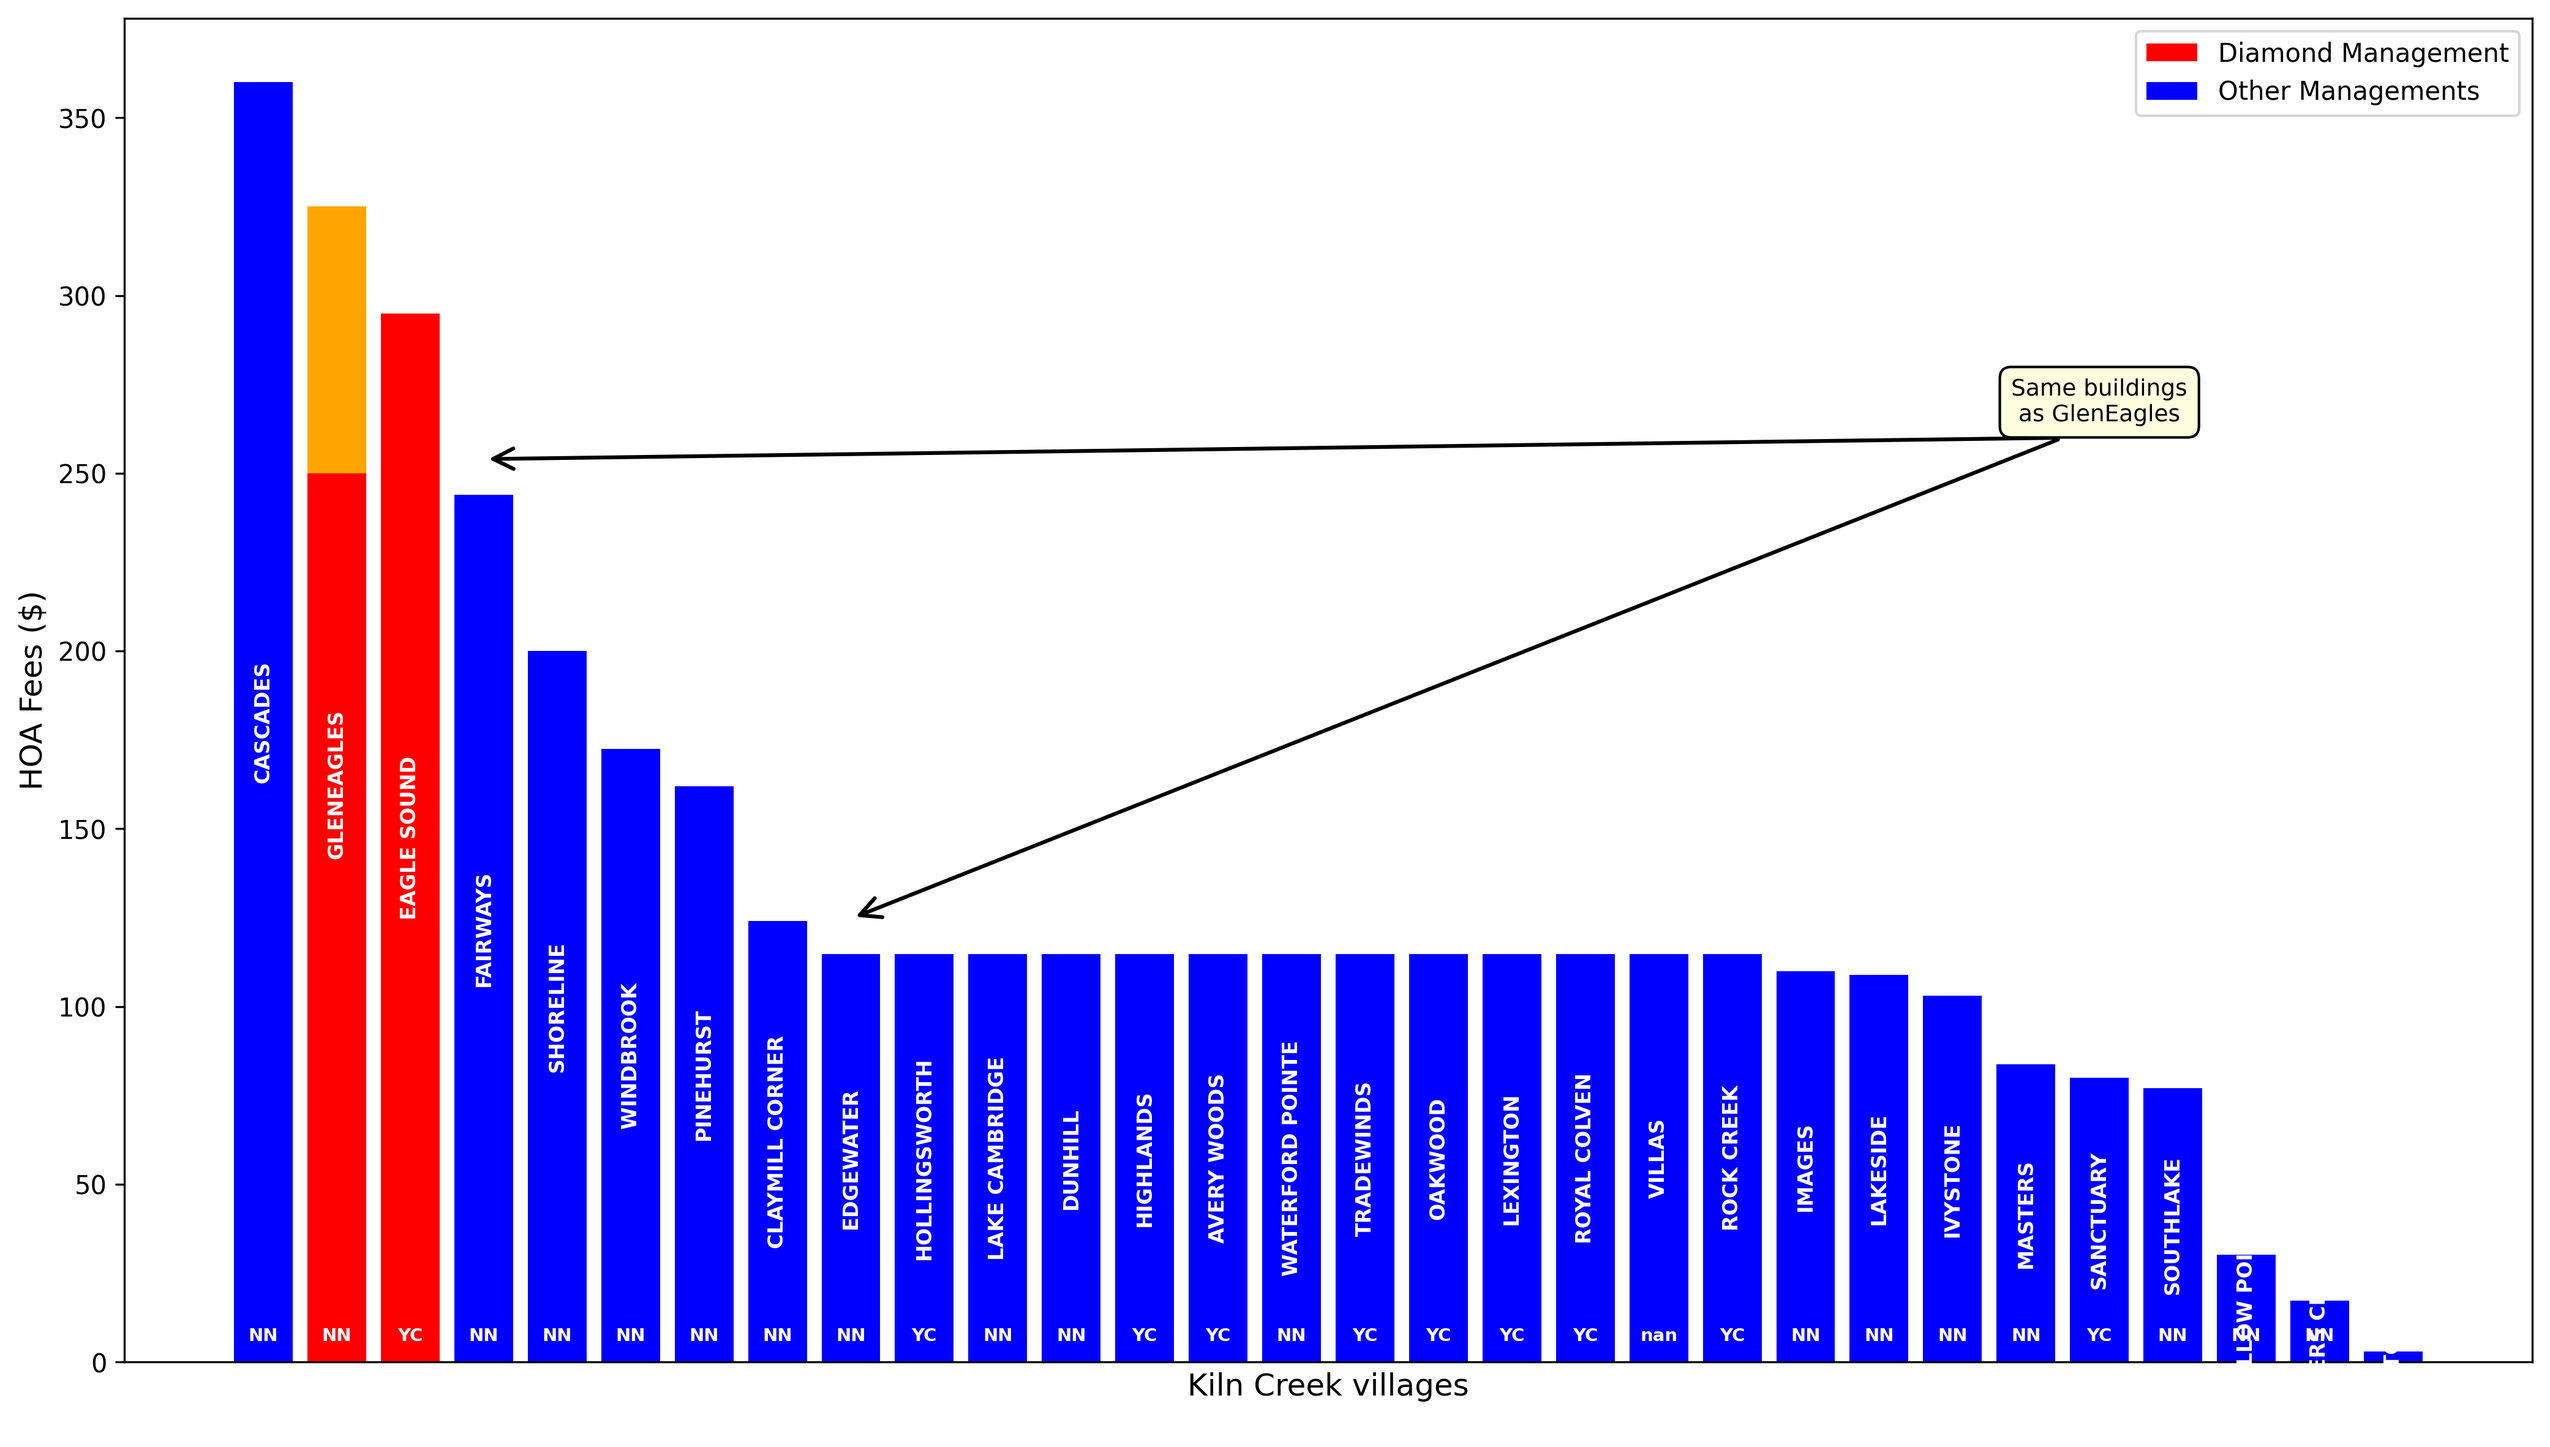
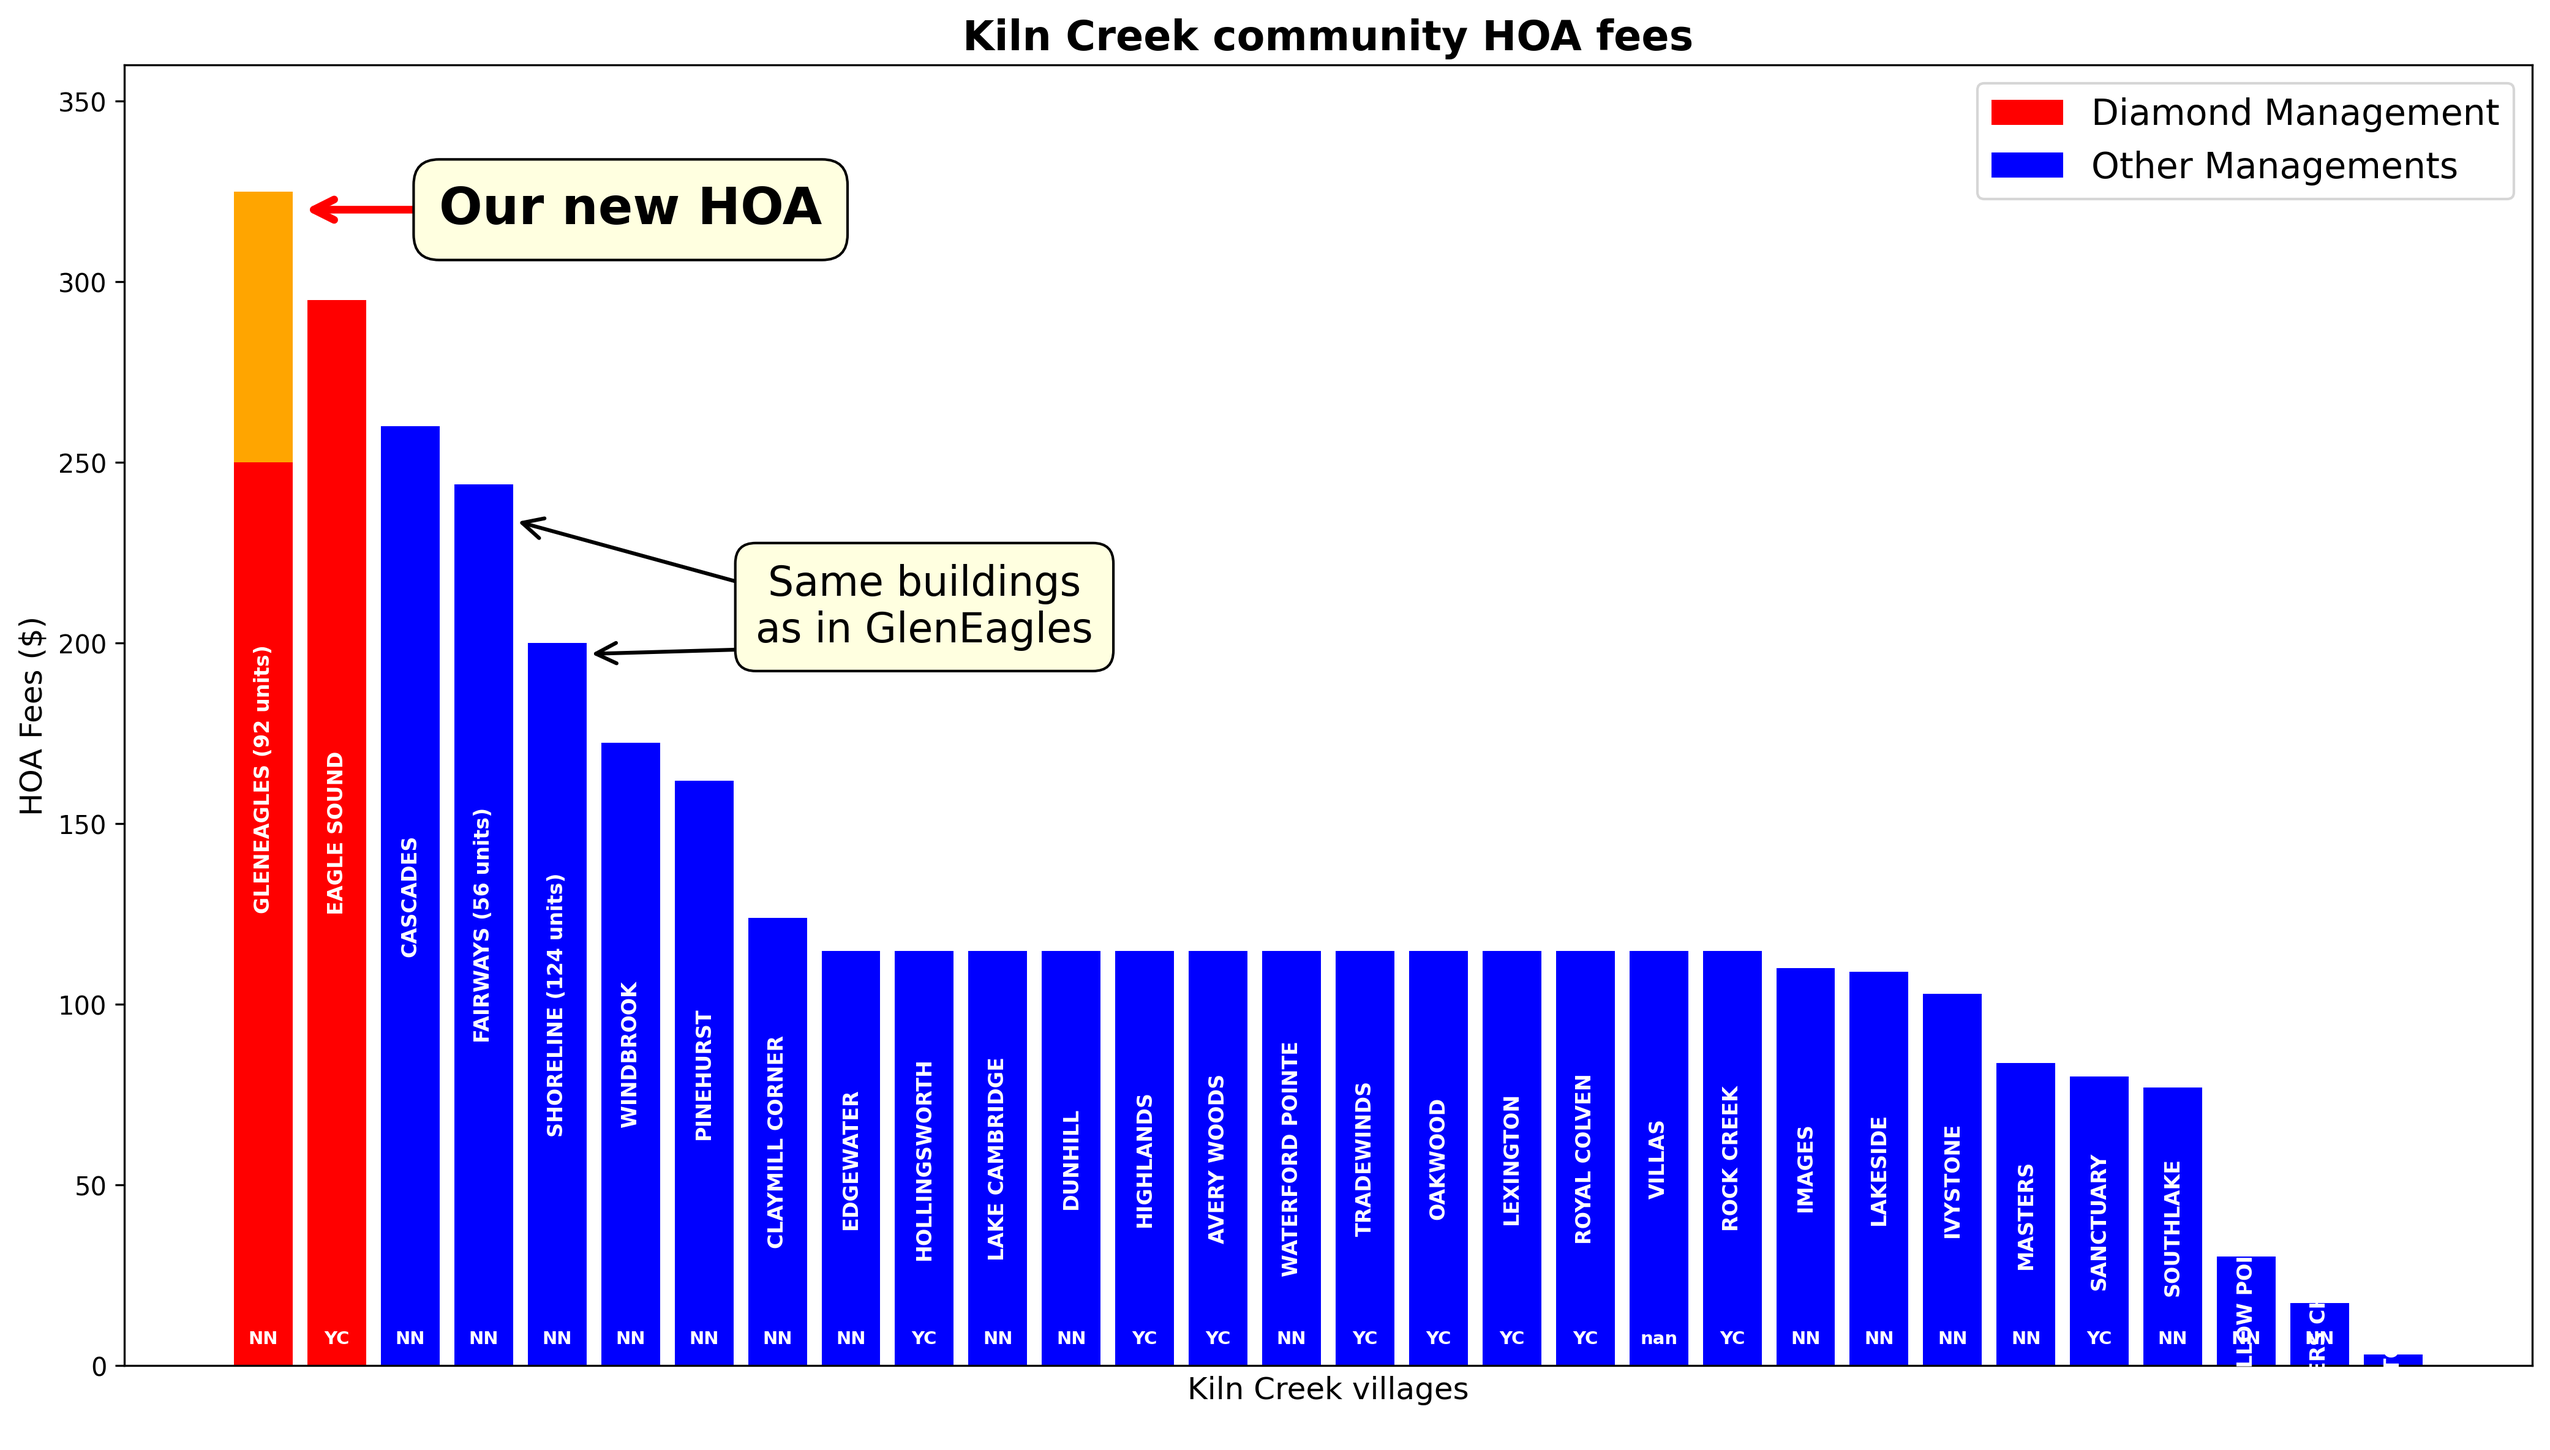
Data update

diff --git a/fees_chart.py b/fees_chart.py
@@ -12,6 +12,9 @@ df['sub_fees'] = pd.to_numeric(df['sub_fees'])
 # Update GLENEAGLES fee to 325
 df.loc[df['subdivision'] == 'GLENEAGLES', 'sub_fees'] = 325
 
+# Update CASCADES fee (subtract 120)
+df.loc[df['subdivision'] == 'CASCADES', 'sub_fees'] = df.loc[df['subdivision'] == 'CASCADES', 'sub_fees'] - 100
+
 # Sort by sub_fees descending
 df = df.sort_values('sub_fees', ascending=False)
 
@@ -33,9 +36,17 @@ for i, (idx, row) in enumerate(df.iterrows()):
         ax.add_patch(orange_patch)
         break
 
-# Add subdivision names on bars
+# Add subdivision names on bars with unit counts for specific subdivisions
 for i, (idx, row) in enumerate(df.iterrows()):
-    ax.text(i, row['sub_fees']/2, row['subdivision'],
+    subdivision_name = row['subdivision']
+    if subdivision_name == 'GLENEAGLES':
+        subdivision_name = 'GLENEAGLES (92 units)'
+    elif subdivision_name == 'SHORELINE':
+        subdivision_name = 'SHORELINE (124 units)'
+    elif subdivision_name == 'FAIRWAYS':
+        subdivision_name = 'FAIRWAYS (56 units)'
+
+    ax.text(i, row['sub_fees']/2, subdivision_name,
             ha='center', va='center', rotation=90, fontsize=8, color='white', weight='bold')
 
 # Add city labels at bottom of bars
@@ -49,41 +60,58 @@ legend_elements = [
     Patch(facecolor='red', label='Diamond Management'),
     Patch(facecolor='blue', label='Other Managements')
 ]
-ax.legend(handles=legend_elements, loc='upper right', fontsize=10)
+ax.legend(handles=legend_elements, loc='upper right', fontsize=14)
 
 # Find positions of EDGEWATER and FAIRWAYS
-edgewater_idx = None
+shoreline_idx = None
 fairways_idx = None
 for i, (idx, row) in enumerate(df.iterrows()):
-    if row['subdivision'] == 'EDGEWATER':
-        edgewater_idx = i
+    if row['subdivision'] == 'SHORELINE':
+        shoreline_idx = i
     elif row['subdivision'] == 'FAIRWAYS':
         fairways_idx = i
 
 # Add label and arrows for "same buildings as GlenEagles"
-if edgewater_idx is not None and fairways_idx is not None:
+if shoreline_idx is not None and fairways_idx is not None:
     # Place label in upper right area
-    label_x = len(df) - 5
-    label_y = df['sub_fees'].max() * 0.75
-    ax.text(label_x, label_y, 'Same buildings\nas GlenEagles',
-            fontsize=9, ha='center', va='center',
+    label_x = 9
+    label_y = 210
+    ax.text(label_x, label_y, 'Same condos\nas in GlenEagles',
+            fontsize=16, ha='center', va='center',
             bbox=dict(boxstyle='round,pad=0.5', facecolor='lightyellow', edgecolor='black'))
 
     # Arrow to EDGEWATER
-    edgewater_fee = df.iloc[edgewater_idx]['sub_fees']
-    arrow1 = FancyArrowPatch((label_x - 0.5, label_y - 10), (edgewater_idx, edgewater_fee + 10),
-                            arrowstyle='->', mutation_scale=20, linewidth=1.5, color='black')
+    edgewater_fee = df.iloc[shoreline_idx]['sub_fees']
+    arrow1 = FancyArrowPatch((label_x + 0.5, label_y - 10), (shoreline_idx+0.4, edgewater_fee - 3),
+                             arrowstyle='->', mutation_scale=20, linewidth=1.5, color='black')
     ax.add_patch(arrow1)
 
     # Arrow to FAIRWAYS
     fairways_fee = df.iloc[fairways_idx]['sub_fees']
-    arrow2 = FancyArrowPatch((label_x - 0.5, label_y - 10), (fairways_idx, fairways_fee + 10),
+    arrow2 = FancyArrowPatch((label_x + 0.5, label_y - 10), (fairways_idx+0.4, fairways_fee - 10),
                             arrowstyle='->', mutation_scale=20, linewidth=1.5, color='black')
     ax.add_patch(arrow2)
 
-# Set labels
+# Add label and arrow for "Our new HOA" pointing to GLENEAGLES
+if gleneagles_idx is not None:
+    gleneagles_fee = df.iloc[gleneagles_idx]['sub_fees']
+    # Place label above the GlenEagles bar
+    label2_x = gleneagles_idx + 5
+    label2_y = gleneagles_fee - 5
+    ax.text(label2_x, label2_y, 'Our new HOA',
+            fontsize=20, ha='center', va='center', weight='bold',
+            bbox=dict(boxstyle='round,pad=0.5', facecolor='lightyellow', edgecolor='black'))
+
+    # Arrow pointing to the top of GLENEAGLES bar
+    arrow3 = FancyArrowPatch((label2_x, label2_y), (gleneagles_idx + 0.5, label2_y),
+                            arrowstyle='->', mutation_scale=20, linewidth=3, color='red')
+    ax.add_patch(arrow3)
+
+# Set title and labels
+ax.set_title('Kiln Creek community HOA fees', fontsize=16, weight='bold')
 ax.set_xlabel('Kiln Creek villages', fontsize=12)
 ax.set_ylabel('HOA Fees ($)', fontsize=12)
+ax.set_ylim(0, 360)
 ax.set_xticks([])
 
 # Adjust layout and save

diff --git a/README.md b/README.md
@@ -1,2 +1,30 @@
 # gleneagles
 Data science for board meeting
+
+![HOA Chart](hoa_chart.png)
+
+## Price Adjustments Between Original Documents and Data Table
+
+### 1. Windbrook at Kiln Creek
+The Kiln Creek master association documentation lists 36 units for
+Windbrook with an HOA fee of $345. However, verification via Google Maps
+reveals the community actually consists of 36 buildings with 2 units per
+building, totaling 72 units. The $345 fee appears to be assessed per
+building rather than per unit. When divided between the two units in each
+building, the per-unit cost is $172.50. This interpretation is
+corroborated by active Zillow listings showing individual unit HOA fees of
+approximately $265, reflecting a price increase of about $12 per unit from
+the documented rate. Adjusted calculation: $345 ÷ 2 = $172.50 per unit,
+plus recent increases brings current rates to approximately $288 per unit
+($172.50 + $115).
+
+### 2. Glen Eagles
+The HOA fee is marked as quarterly in source documents but is actually
+paid monthly. Data has been adjusted to reflect the monthly payment
+schedule.
+
+### 3. The Cascades
+The Condo Fee includes Water and Sewer utilities. To ensure accurate
+comparison with other communities, the price has been corrected using
+average values from comparable properties with similar apartment areas and
+bathroom counts, excluding utility costs.
